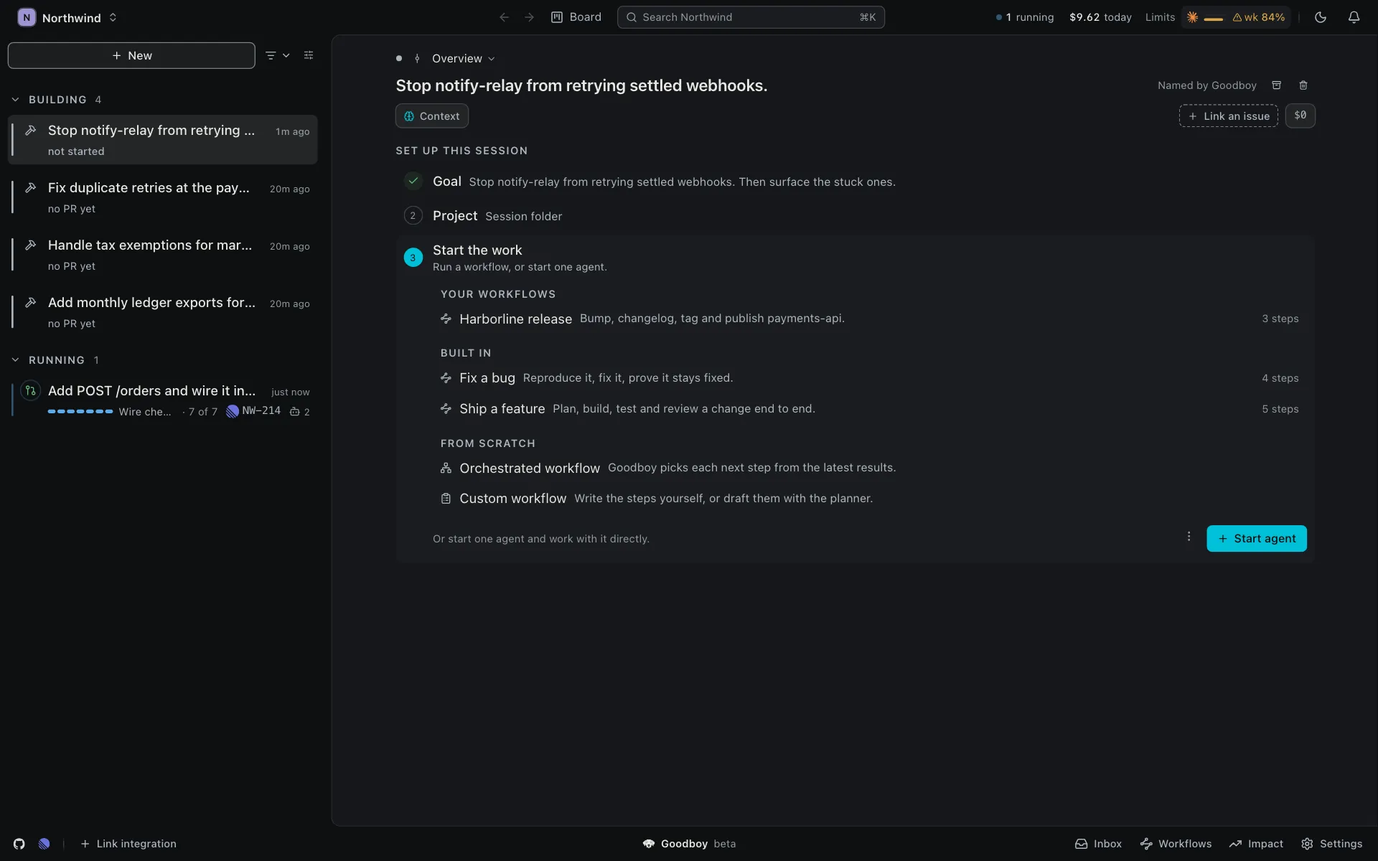
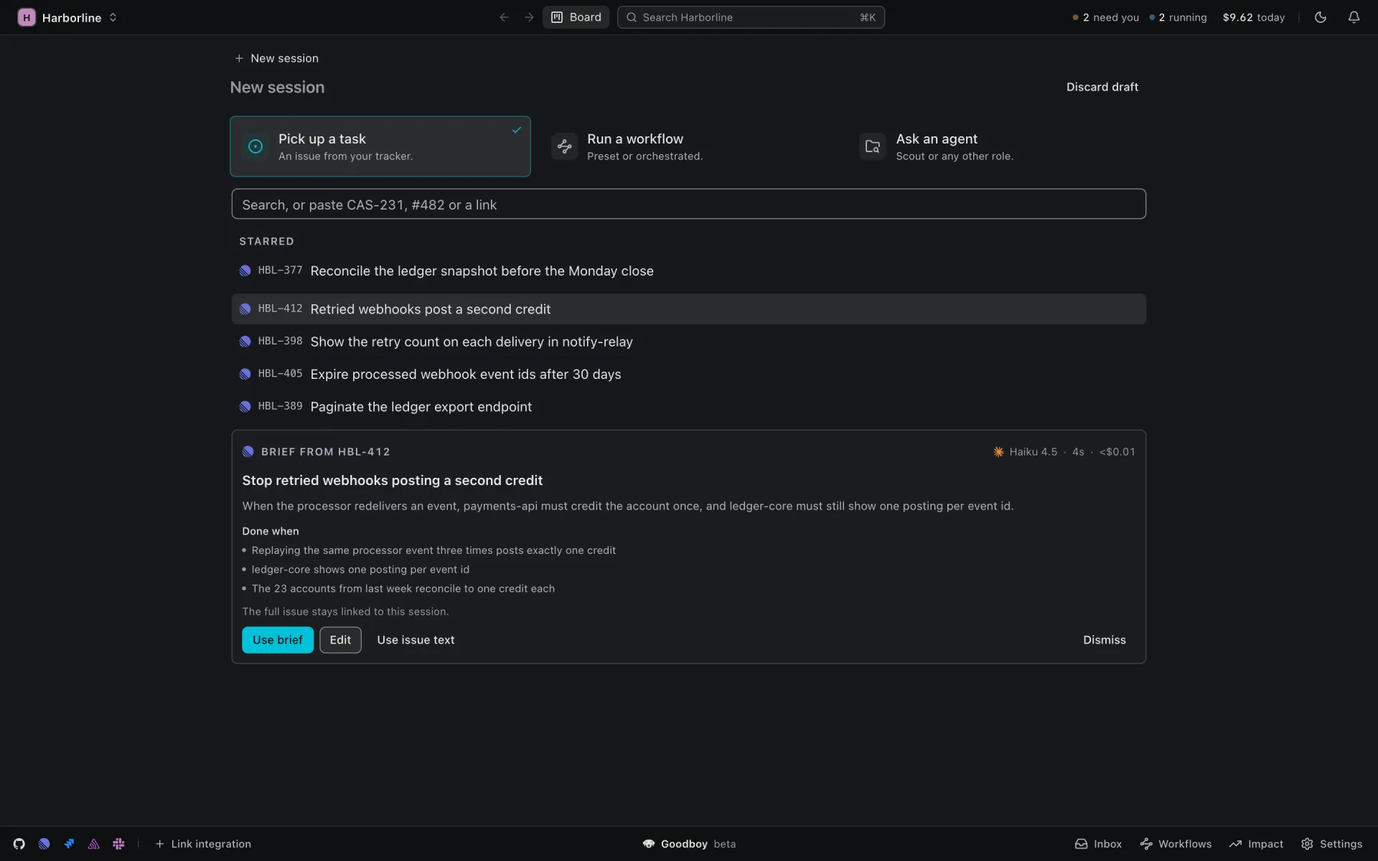
docs(repo): describe start blank and the kickoff workflow approach
The 0.11.4 pages described the setup stepper. They are back to the
0.11.3 kickoff text plus Start blank and the Orchestrated, Custom and
Preset choice, and the stepper pictures are gone.

diff --git a/apps/desktop/src/features/settings/components/GuideStudio/guideChapters.ts b/apps/desktop/src/features/settings/components/GuideStudio/guideChapters.ts
@@ -122,7 +122,7 @@ export const GUIDE_CHAPTERS: ReadonlyArray<GuideChapter> = [
     group: 'task',
     title: 'New session and kickoff',
     concept: 'sessions',
-    lead: 'A session is one task: a goal, the agents working on it, and a branch for each project they edit. It starts as a draft and becomes a session only when you press Start.',
+    lead: 'A session is one task: a goal, the agents working on it, and a branch for each project they edit. It starts as a draft and becomes a session only when you press Start or Start blank.',
     points: [
       {
         term: 'Pick up a task',
@@ -130,11 +130,15 @@ export const GUIDE_CHAPTERS: ReadonlyArray<GuideChapter> = [
       },
       {
         term: 'Run a workflow',
-        desc: 'Write a goal, pick a built-in or saved workflow, and run it from the first screen.',
+        desc: 'Write a goal and pick Orchestrated, Custom or Preset. A preset runs from the first screen. The other two open the workflow form with your goal filled in.',
       },
       {
         term: 'Ask an agent',
         desc: 'Ask a question about the code. Scout is the default and maps an unfamiliar repo before you plan.',
+      },
+      {
+        term: 'Start blank',
+        desc: 'Start from the goal: the session opens on its Overview, where you add the goal, projects and work when you are ready.',
       },
       {
         term: 'Named for you',

diff --git a/website/src/sections/HowItWorks.tsx b/website/src/sections/HowItWorks.tsx
@@ -19,10 +19,6 @@ export const HowItWorks = () => (
         why.
       </p>
       <p>
-        Press New and the session opens blank on its overview. Set a goal and a project, then pick
-        your own workflow, a built-in one, or an orchestrated or custom one.
-      </p>
-      <p>
         Heading somewhere you did not mean? Leave a hint for the next decision, or have it read
         right away.
       </p>

diff --git a/docs/navigation.md b/docs/navigation.md
@@ -225,45 +225,108 @@ empty session reads as a young version of the same document, not a wall of
 placeholders. Finished work collapses into one summary row per category. The
 surface itself shows urgency, never a badge parked beside it.
 
-**New session starts blank, straight on its Overview.** New, ⌘N, the board,
-the palette, the collapsed rail and the checklist all fire
-`goodboy:new-session`, and `NewSessionBridge` calls `startBlankSession`
-(`store/slices/sessionStart/`): it creates a session with no title, goal,
-project, agent or workflow and lands on its Overview. Nothing is asked first.
-While the last blank session is still untouched (no title, goal, slot, mount,
-agent or workflow run), New goes back to it instead of creating another one,
-so repeated presses never pile up empty sessions. A second press while the
-first create is still running is ignored. A blank session reads `Untitled
-session` in the header, the sidebar, the board and every confirm
-(`sessionTitle`).
+**New session is a draft, not a session.** New, ⌘N, the board, the palette
+and the checklist open the `New session` draft (the `session-draft` place,
+address `new`). Nothing is written: no row in the database, the sidebar or
+the board. The trail and the title say `New session`, the title is faint and
+cannot be renamed, and there is no `⋯`, no chip and no projects section. The
+sidebar's New button stays selected while the draft is open. Each workspace
+keeps one draft in memory (`store/slices/sessionDraft/`), never on disk:
+leaving it keeps it intact, New brings it back, and the button shows a primary
+dot with `Draft in progress` while a written draft waits. `Discard draft` in
+the header empties it; Esc never does. Back returns to the draft like any
+other place. **Start blank** in the header (`startBlankSession`) is the way
+to start from the goal: it creates a session with no title and no goal slot
+and lands on its normal Overview (`Untitled session`, `Add a goal`), where
+the goal, projects and work are added from the usual controls. Nothing is
+required first, and the draft stays for the next New.
 
-**A session with nothing started sets itself up inline** (`SessionSetup`).
-While it has no agent and no workflow run, the Overview shows `Set up this
-session` in place of the next step and Activity: an ordered list of three
-steps, one open at a time, each with its own empty state and actions.
+The draft asks one question, "How do you want to start?", with three choices
+on one row as tabs (`StartChoiceTabs`, `SegmentedTabs` `card` variant).
 
-- **Goal** asks "What should this session get done?". Save goal writes the
-  goal slot and, while the session is untitled, names it after the goal's
-  first sentence (`saveSessionSetupGoal`, marked `Named by Goodboy`).
-- **Project** lists the workspace projects not in the session yet
-  (`MountProjectList`, the same list and preflight as Add project). Skip keeps
-  the turns in the session folder; a workspace with no project offers `Add
-workspace project`.
-- **Start the work** lists `Your workflows`, `Built in` and `From scratch`
-  (`Orchestrated workflow`, `Custom workflow`), with Start agent and the Create
-  menu beside them. Picking a workflow prefills the builder draft
-  (`builderDraftFor`: the preset and its steps, or the custom or orchestrated
-  approach, plus the session goal) and opens the same `Start a workflow` studio
-  the Workflows lens uses (`WorkflowBuilderView`), editable before anything
-  starts.
+- **Pick up a task** shows the open issues of the connected trackers with a
+  search field. Picking one and pressing **Pick up** proposes the brief under
+  the list, as the issue brief flow in [concepts.md](concepts.md) describes.
+  Use brief, Edit or Use issue text settles the title and goal and opens
+  **How to work on it** (`HowToWorkOnIt`) underneath: the same Run a workflow
+  or Ask an agent choice as the other two tabs, precompiled with that goal,
+  Run a workflow preselected. Its own primary links the issue, creates the
+  session and starts the workflow or agent in one gesture. Without a tracker
+  it shows the connect links. The search, like the Inbox search, reads an issue
+  code or link (`parseIssueCode`: `CAS-231`, a Sentry short id, `#482`,
+  `owner/repo#482`, a tracker URL; anything else stays a local filter). When
+  no loaded row has that exact identifier, `useWorkspaceIssueLookup` asks the
+  right tracker once (300 ms after typing, cached two minutes): a key goes to
+  Jira when it matches the Jira project, to Linear alone when the prefix
+  matches a Linear team key (`linear_fetch_team_keys`, fetched once per
+  connection and cached, so a recognized team no longer also fires a Jira
+  call that was always going to 404), otherwise to Linear and Jira; `#N` goes
+  to every GitHub or GitLab repo of the workspace's projects (four GitHub
+  calls at a time); a short id resolves across the Sentry organization
+  (`sentry_resolve_short_id`). While a lookup is in flight, the row names the
+  trackers it asked (`Looking up CAS-231 in Linear and Jira`). Hits sit in a
+  `Not in your inbox` group above the list (`InboxLookupGroup`) and open or
+  pick up like any other issue, with a second line showing `Assigned to
+<name>` for a Linear or Jira hit with a known assignee, the project/repo
+  context otherwise; a miss is one row in that group that says why (not
+  found or not visible, key rejected with `Sign in again`, missing
+  permission, tracker not connected, no repo for `#N`), and a rate limit
+  shows a live countdown and retries once on its own when it ends, alongside
+  the manual `Try again`. The mobile companion resolves Linear, Sentry and
+  GitLab issues through the same direct lookups instead of searching only
+  the issues assigned to you. Issues can be starred (`StarToggle`, the same
+  star as projects) from an Inbox row, a lookup hit or `s` on the selected
+  row. Stars live per workspace (`workspace_starred_issues`, keyed by
+  provider and external id; GitHub keys by `owner/repo#N`) with the last
+  copy of identifier, title and state, so the `Starred` group draws before
+  any tracker answers; a row not refreshed since app start opens the detail
+  panel from that snapshot (`placeholderRecordOf`), not the tool's URL, and
+  gets replaced once the refresh lands a real record. In the Inbox it sits
+  under `Not in your inbox` and above the days, and a starred issue leaves
+  the days; open ones come first, closed ones at the bottom with `Unstar
+closed` and `Undo`, and one the tracker no longer returns reads `Can't
+reach NW-230 anymore`. Pick up a task shows only the open starred issues,
+  even ones a session already picked up. Opening the Inbox or Pick up a task
+  refreshes the stars at most every five minutes (`refreshStarredIssues`):
+  one request per tracker for Linear and Jira, one per project for GitLab,
+  and one per issue for GitHub and Sentry, which have no batch endpoint for
+  fetching by id.
+- **Run a workflow** asks for the goal, then the approach with the workflow
+  builder's own switch (`ModeSwitch`: Orchestrated, Custom, Preset). The pick
+  is kept in the draft (`workflowMode`) and in the builder's last-mode key, so
+  both open on the same approach next time. **Preset** lists built-in and
+  saved presets: **Run workflow** starts one with that goal, **Edit steps**
+  opens it in the builder first. **Orchestrated** (Set up orchestration) and
+  **Custom** (Set up the steps) create the session, seed its builder draft
+  (`builderDraftFor`) with the approach and the goal, and open the shared
+  workflow builder (studio `workflow`) on it, where Start workflow runs it.
+- **Ask an agent** (`AgentStart`) is the real chat composer's field: role,
+  model and project sit below it as chips (`AgentStartFields`), opening the
+  same role grid and model picker `Start agent` uses. The role defaults to
+  Scout every time, never the last one picked, because a habitual Implementer
+  writes code you did not ask for. Scout alone can start with an empty field
+  ("Start Scout on the whole project", which reads the project and changes
+  nothing); every other role needs a prompt first. The model chip reads Auto
+  until pinned. The project chip only shows when the workspace has more than
+  one repo project; with one it is preselected with no chip, with none the
+  session starts with no project attached.
 
-Each step can be skipped, and a done or skipped row reopens in place on click
-(`focusSessionSetupStep`). The next open step is the first one neither done
-nor skipped. Skips live in memory per session. The header hides `Add a goal`
-and the empty Projects section while the setup shows, so nothing is asked
-twice. The first agent or workflow run ends the setup and the Overview
-becomes the usual document. Picking up an issue with a drafted brief lives in
-the Inbox (Launch session).
+Only the selected tab's panel, and only its primary, shows. The tabs
+preselect Pick up a task when a tracker has open issues and Run a workflow
+otherwise, and they never remember the last choice. Opening the draft puts
+focus on the selected tab.
+
+**Start is the only way a session is born from the draft.** The primary
+creates the session and starts the work in one gesture
+(`startSessionFromDraft`): the title and the goal come from the issue, the
+workflow goal or the first sentence of the Scout focus, a picked issue is
+linked, and the column moves to the new session. The header marks that title
+`Named by Goodboy` until you rename it or open the session again, and a better
+title that arrives later fades in without moving the layout. If the start fails, the
+session is removed again, the draft stays as it was and the reason shows
+inline above the primary. A session that exists always has a real title, so
+its header never has an empty state. Sessions created elsewhere with no
+activity yet show the plain overview with its actions.
 
 ## Breadcrumbs
 
@@ -542,12 +605,13 @@ control, names the workspace after its parent folder and finds the
 repositories inside one. Code host is skipped by itself when no project is a
 repository. Code host and Tasks can be skipped; Sentry, Slack and the rest
 live in Settings › Integrations. There is no permissions question: every
-workspace starts on Full access. The last step offers three ways to start,
-with Ask an agent picked and three starters: Start Scout creates the session
-in the project picked in the Project step (`startFirstScout`), titled after
-the starter, with Scout running on it. Pick up a task closes the wizard on the
-Inbox. Run a workflow closes it on a blank session in that project, open on its
-Start the work step. With no
+workspace starts on Full access. The last step offers the same three ways as
+a new session, with Ask an agent picked and three starters: Start Scout
+starts the session from a Scout draft (`startSessionFromDraft`) with that
+starter as its focus, and Scout running. Pick up a task and Run a workflow
+close the wizard on the new session draft with that choice picked. Either
+way the draft carries the project picked in the Project step, so the session
+lands in it. With no
 issue source at all, Pick up a task says so and leads back to Code host. The checklist has six
 items (provider, project, code host, task manager, first session, profile); a
 skipped code host or task manager reopens its own step, and the first session
@@ -924,9 +988,12 @@ workspaceId })`, owns every row's subtitle and tone (it replaced three
 
 ## Creating a session
 
-A new session is created blank and always lands on Overview. Nothing is a
-condition for having one: goal, project, agents and workflow are each set
-later, inline, from the setup steps. Creating a session picks no project. The session is born on the
+The new session form always lands on Overview. It offers no agent-kind picker
+before the session exists: the kind is a choice made inside a session, not a
+condition for having one. Its issue sources come from a curated allowlist, not
+from every connected provider, because a connected code host does not mean an
+issue picker. The section hides when none of the allowed sources is connected.
+Creating a session picks no project either. The session is born on the
 workspace with only a container directory, and projects are materialized when
 the work reaches them ([concepts.md](concepts.md) → Lazy sessions).
 

diff --git a/docs/event-bus.md b/docs/event-bus.md
@@ -8,7 +8,7 @@ Every event on this page is a browser CustomEvent sent via `window.dispatchEvent
 
 | Event                             | Payload | Dispatched from                                                                                                                                                                                            | Listened in                                                                          | Purpose                                                 |
 | --------------------------------- | ------- | ---------------------------------------------------------------------------------------------------------------------------------------------------------------------------------------------------------- | ------------------------------------------------------------------------------------ | ------------------------------------------------------- |
-| `goodboy:new-session`             | none    | requestNewSession.ts (useAppShortcuts/index.ts, CommandPalette/index.tsx, NewSessionButton.tsx), SetupChecklist/StepRow.tsx, CollapsedRail.tsx, StageBoard/index.tsx, ImpactStudio/index.tsx               | useSessionSurfaceEvents.ts, SessionActivityBar/index.tsx, NewSessionBridge/index.tsx | Create a blank session (or reopen the untouched one).   |
+| `goodboy:new-session`             | none    | requestNewSession.ts (useAppShortcuts/index.ts, CommandPalette/index.tsx, NewSessionButton.tsx), SetupChecklist/StepRow.tsx, CollapsedRail.tsx, StageBoard/index.tsx, ImpactStudio/index.tsx               | useSessionSurfaceEvents.ts, SessionActivityBar/index.tsx, NewSessionBridge/index.tsx | Open the new session draft on the current workspace.    |
 | `goodboy:add-workspace`           | none    | SetupChecklist/StepRow.tsx, WorkspaceLauncher/index.tsx, WorkspaceSwitcher/index.tsx, CommandPalette/index.tsx                                                                                             | useStudioEvents.ts                                                                   | Open the add workspace studio.                          |
 | `goodboy:reveal-chat`             | none    | HandoffChip, NotificationToastBridge, useBoardNavigation, useAgentsSection, useStandaloneAgentsLane, CreateAgentPopover, AgentFollowUpChild, ExploreSpawnPopover, useReportRegenerate, useWireframeRespawn | useSessionSurfaceEvents.ts, AgentDetailPane/index.tsx                                | Close the session studio and show the agent transcript. |
 | `goodboy:open-workspace-switcher` | none    | useAppShortcuts/index.ts, WorkspaceLinkForm/index.tsx                                                                                                                                                      | WorkspaceIdentityRow/index.tsx (via openEvent prop)                                  | Open the workspace switcher popover.                    |
@@ -26,7 +26,7 @@ Every event on this page is a browser CustomEvent sent via `window.dispatchEvent
 | `goodboy:open-notifications`        | none                                                                                                                                                                    | Toast/index.tsx                                                                                                                                                                                                                                                                                                    | NotificationCenter/index.tsx | Open the notifications popover.                                                                             |
 | `goodboy:open-pair-device`          | none                                                                                                                                                                    | SettingsStudio/AppScopePanel.tsx, CommandPalette/index.tsx                                                                                                                                                                                                                                                         | useStudioEvents.ts           | Open the companion pairing studio.                                                                          |
 | `goodboy:open-impact-studio`        | `{ scope?: object }`                                                                                                                                                    | openImpactStudio.ts (SessionCostChip.tsx, OrchestratorStrip/index.tsx, NotificationToastBridge/index.tsx, CommandPalette/index.tsx)                                                                                                                                                                                | useStudioEvents.ts           | Open the impact studio, at a spend scope when one is given.                                                 |
-| `goodboy:open-inbox`                | `{ workspaceId?, provider?, kind?, recordKey?, sessionId? }`                                                                                                            | ToolDetailPanel.tsx, StageBoardCard/index.tsx, session-view/workSurface.ts, CommandPalette/index.tsx                                                                                                                                                                                                               | useStudioEvents.ts           | Open the inbox studio, optionally scoped to a provider, kind, record or session.                            |
+| `goodboy:open-inbox`                | `{ workspaceId?, provider?, kind?, recordKey?, sessionId? }`                                                                                                            | TrackerStudioLinks/index.tsx, ToolDetailPanel.tsx, StageBoardCard/index.tsx, session-view/workSurface.ts, CommandPalette/index.tsx                                                                                                                                                                                 | useStudioEvents.ts           | Open the inbox studio, optionally scoped to a provider, kind, record or session.                            |
 | `goodboy:open-workflow-studio`      | none                                                                                                                                                                    | WorkflowFollowToastBridge/index.tsx, CommandPalette/index.tsx                                                                                                                                                                                                                                                      | useStudioEvents.ts           | Open the workspace workflow studio.                                                                         |
 | `goodboy:open-changelog`            | none                                                                                                                                                                    | changelogStudioEvent.ts (CommandPalette/index.tsx)                                                                                                                                                                                                                                                                 | useStudioEvents.ts           | Open the changelog studio.                                                                                  |
 

diff --git a/packages/ui/DESIGN-SYSTEM.md b/packages/ui/DESIGN-SYSTEM.md
@@ -102,7 +102,7 @@ The list is `TYPE_ROLES` in `typeRoles.ts`.
 | ---------------- | ----------------------------- | -------------------------------------------------------------------------------------- |
 | `text-display`   | 24/32, 600, -0.01em           | onboarding titles, the `EmptyState` hero, the Impact title                             |
 | `text-title`     | 17/24, 600, -0.005em          | the one pane title (h1) of a surface                                                   |
-| `text-heading`   | 14/20, 600                    | a page-grade section, a popover title, a wizard question                               |
+| `text-heading`   | 14/20, 600                    | a page-grade section, a popover title, a kickoff question                              |
 | `text-row`       | 14/20, 500                    | a top-level row label, a card title                                                    |
 | `text-body`      | 14/20                         | running text; text with no class inherits it from the body                             |
 | `text-prose`     | 14/22                         | messages, markdown, artifacts                                                          |
@@ -756,7 +756,7 @@ Which action goes in which zone is decided in [DESIGN.md](../../DESIGN.md#action
 - The `tabs` slot of the detail layout keeps the tab strip at its own width. It never stretches across the header.
 - A section-scoped action uses `SectionHeader.action`. A field control uses `FieldRow`. Neither one moves itself up into global chrome.
 - A region that can start several kinds of work shows one primary, never a row of peer buttons. `SplitButton` joins the primary half, which its owner renders through `primary({ className })` so a popover can anchor to it, with a chevron half that opens the less frequent starts as a menu. Each menu item names the kind and carries a one-line `description` and a concept `tone` on its icon. `OverflowMenu` and `SplitButton` render items through the same `MenuItems`.
-- A blank session's setup follows the same rule: only the open step shows its fields and its one primary (Save goal, Start agent), the other steps are single rows that reopen in place, and Skip is a ghost beside the primary. The workflow list under Start the work is a list of rows, never tiles. A grid of tiles is not an action zone.
+- The new session draft follows the same rule, with one exception: an empty session asks one question with three choices on one row, as tabs (`SegmentedTabs` `card` variant, glyph, title, one line, a check on the selected one) instead of a stacked list, because there are exactly three doors and they read better side by side. Only the selected tab's panel, and only its primary, shows. An item that cannot work yet is left out, never shown disabled. A grid of tiles is otherwise not an action zone.
 - The session overview's actions carry a second exception: a frequent alternative to the primary sits as one secondary button beside it, not folded into the menu. `OverviewActions` shows a secondary Run workflow (Open run once one is active) next to the primary Start agent, with `OverflowMenu` labeled Create holding only the rarer starts (Report, Wireframe). Still one primary; the secondary is the one alternative common enough to earn its own button.
 - An overflow menu that has to confirm one of its items in place renders `MenuItems` inside its own `AnchoredPopover` and swaps to a plain `InlineConfirm`, as the orchestrator strip does for **Stop now**.
 - An on or off setting is a `Switch`: the label names the setting and the knob says its state, so the label never reads "on" or "off". Autorun uses it everywhere (`WorkflowAutorunToggle`).
@@ -888,13 +888,12 @@ Lenses always use `inline`. Only a surface's own main empty state gets the
 large size and an `h2`. An empty lens leaves `headingLevel` unset, so it adds
 nothing to the document outline.
 
-A blank session's empty state is its setup (`SessionSetup`): `Set up this
-session` over an ordered list of Goal, Project and Start the work. Each row is
-a 20px step marker (the ordinal, filled with primary on the open step, a
-success check once done, a faint ring otherwise), a title and, once done or
-skipped, a muted one-line summary. The open step sits on `subtle` with its one
-line of explanation, its fields and its action row. There is no example run
-and no grid of tiles.
+The new session draft is the kickoff. It asks "How do you want to
+start?" and answers with a single-select list of three rows, each a concept
+glyph, a title and one line: Pick up a task, Run a workflow, Not sure yet. The
+selected row reveals its fields and its one primary under the list. Arrow keys
+move between rows and Enter moves into the selected row's fields. There is no
+example run and no grid of tiles.
 
 Inline empty states belong to a lens or a compact collection surface. A filled,
 borderless inline empty state belongs to a surface's own body and uses

diff --git a/docs/concepts.md b/docs/concepts.md
@@ -265,8 +265,8 @@ whether you clicked it on the board or in the session overview.
 - **`NextStepSlot`** (`features/suggestions/components/NextStepSlot/`) sits
   in the session overview, above Activity, outside its filter and its
   grouping: a suggestion is not activity, it is a pointer to what activity
-  should happen next. A session with nothing started shows its setup steps
-  instead; the two never compete for the same moment.
+  should happen next. A new session shows the kickoff instead; the two never
+  compete for the same moment.
 - Every suggestion carries a **band** (0 waits on you, 1 unblocks something,
   2 ships something, 3 improves something), a **why** (the second line, the
   concrete reason), a **fingerprint** (kind, object, trigger version) and a
@@ -808,12 +808,19 @@ item and its link. Agents read the whole item through the
 [query bridge](query-bridge.md). A proposed session title is cut at a word and
 ends with an ellipsis.
 
-Opening Launch session on an inbox issue asks the **Issue briefs** task model
-for a brief: a title, a goal of one to three sentences and up to five "done
-when" criteria, in the issue's language. It reads the issue text, not its
-comments, and answers in checked JSON, so a reply with a preamble fails
-instead of leaking into the goal. The brief is only a proposal: in the Launch
-session popover it fills the goal only while you have not edited it, and
+Picking an issue in the new session draft, or opening Launch session on an
+inbox issue, asks the **Issue briefs** task model for a brief: a title, a goal
+of one to three sentences and up to five "done when" criteria, in the issue's
+language. It reads the issue text, not its comments, and answers in checked
+JSON, so a reply with a preamble fails instead of leaking into the goal. The
+brief is only a proposal. In the draft you pick Use brief, Edit, Use issue
+text or Dismiss, and a failure stays inline in the card with Retry. The first
+three settle the title and goal and open How to work on it (`HowToWorkOnIt`,
+`SessionKickoff/`) underneath: Run a workflow (preselected, the workspace's
+first library preset) or Ask an agent, precompiled with that goal and
+editable. Its own action links the issue, creates the session and starts the
+workflow or agent in the same gesture; nothing exists before that. In the
+Launch session popover the brief fills the goal only while you have not edited it, and
 Launch works with the issue text while the brief is still loading. Briefs are
 kept in memory per issue text, so the same issue is not briefed twice. With no
 connected provider free for the task, the card shows the issue text alone.

diff --git a/FEATURES.md b/FEATURES.md
@@ -86,16 +86,20 @@ Tell agents once who you are and how you like to work, in four short parts. **Se
 
 <picture>
   <source media="(prefers-color-scheme: dark)" srcset="./docs/readme/s02-kickoff-dark.webp">
-  <img src="./docs/readme/s02-kickoff-light.webp" alt="A blank session's overview with the goal set and Start the work listing your workflows, built-in ones, and an orchestrated or custom workflow">
+  <img src="./docs/readme/s02-kickoff-light.webp" alt="Pick up a task with HBL-412 selected and a drafted brief">
 </picture>
 
-### Start blank, set it up step by step
+### How do you want to start?
 
-**New** opens a fresh session right away, with nothing to fill in first. Its overview walks you through **Goal**, **Project** and **Start the work**, one step at a time, and any step can be skipped or reopened. Press New again before touching it and you land back on the same session, so empty sessions do not pile up.
+Start from an issue, a workflow or a question, in one draft with three tabs: **Pick up a task**, **Run a workflow** and **Ask an agent**. The draft becomes a session only when you press Start, so empty sessions do not pile up.
+
+### Start blank
+
+Start from the goal instead: **Start blank** opens the session straight on its Overview, and you add the goal, projects and work from there.
 
 ### Pick up a task, with a drafted brief
 
-Turn an issue into a briefed session from the Inbox. Goodboy drafts a short title and goal linked back to the issue, and you keep it or edit it.
+Turn an issue into a briefed session in one pick. Goodboy drafts a short title and goal linked back to the issue, and you keep it, edit it, or use the issue text.
 
 ### Ask an agent
 
@@ -103,7 +107,7 @@ Map an unfamiliar repo before you plan: **Scout** is the default and can start w
 
 ### Run a workflow
 
-Start the work lists your own workflows, the built-in ones, an orchestrated workflow and a custom one. Picking any of them opens the full workflow form, filled in with your goal, so you can change the steps before it starts.
+Write a goal and pick **Orchestrated**, **Custom** or **Preset**. A built-in or saved preset runs from the first screen. Orchestrated, Custom and **Edit steps** open the workflow form with your goal filled in.
 
 ### Named by Goodboy
 

diff --git a/README.md b/README.md
@@ -35,7 +35,7 @@ The idea is small. A task keeps its own goal, decisions and summary, so the agen
 
 You pick an issue from Linear. Goodboy drafts a title and a goal from it, and the task lands on the **board** as a session. From there the board moves it for you, between **building**, **running**, **needs you** and **in review**, with done work folded to the side, as the work changes. Each card shows its pull request and what it has cost so far.
 
-Tasks come from the tools you connect: [GitHub, GitLab, Bitbucket, Jira, Linear, Sentry and Slack](https://github.com/akhayam99/goodboy/blob/main/FEATURES.md#supported-tools). Or press **New** for a [blank session](https://github.com/akhayam99/goodboy/blob/main/FEATURES.md#start-blank-set-it-up-step-by-step): its overview asks for a goal, a project and how to start the work, one step at a time.
+Tasks come from the tools you connect: [GitHub, GitLab, Bitbucket, Jira, Linear, Sentry and Slack](https://github.com/akhayam99/goodboy/blob/main/FEATURES.md#supported-tools).
 
 [See how it works →](https://github.com/akhayam99/goodboy/blob/main/FEATURES.md#the-board)
 
@@ -48,7 +48,7 @@ Tasks come from the tools you connect: [GitHub, GitLab, Bitbucket, Jira, Linear,
 
 ## Workflows
 
-A **workflow** splits the task into steps, and each step is a fresh agent with a short brief. In **Orchestrated** mode a model picks the next step after each one finishes and writes down why. A new session lists your own workflows, the built-in ones, and an orchestrated or custom one, and each opens the same form, filled in with your goal.
+A **workflow** splits the task into steps, and each step is a fresh agent with a short brief. In **Orchestrated** mode a model picks the next step after each one finishes and writes down why.
 
 That is also where the money goes. In the run below, a scout read the posting path for two cents. The planner spent $1.28, because that is the step that has to think. Want to steer? Queue a hint for the next decision, or have the orchestrator read it now.
 

diff --git a/CHANGELOG.md b/CHANGELOG.md
@@ -14,21 +14,19 @@ onto its own paragraph.
 
 ## Goodboy v0.11.4
 
-New sessions open blank on their overview and set up in three short steps, with every kind of workflow one pick away.
+Start a session blank from the goal, and pick orchestrated, custom or preset right in the kickoff.
 
 ### New
 
-#### Start blank, set it up step by step
-<!-- gb area=sessions image=session-start -->
+#### Start blank, straight from the goal
+<!-- gb area=sessions -->
 
-New opens a session right away, with nothing to fill in first, and lands on its Overview. Set up this session walks you through Goal, Project and Start the work, one step at a time. Skip any step and reopen it later from the same list.
+The kickoff keeps Pick up a task, Run a workflow and Ask an agent. Start blank, next to them, creates the session and lands on its Overview, where you add the goal, projects and work from the usual controls. Nothing is required first.
 
-Press New again before you touch the session and you land back on it, so empty sessions do not pile up. Picking up an issue stays in the Inbox.
+#### Orchestrated, custom or preset in Run a workflow
+<!-- gb area=workflows -->
 
-#### Pick any workflow to start the work
-<!-- gb area=workflows image=workflow-picker -->
-
-Start the work lists your workflows, the built-in ones, and an orchestrated or custom workflow. Picking any of them opens the workflow form filled in with your goal, so you can change the steps before it starts. Start agent runs one agent instead.
+Run a workflow now offers the same Orchestrated, Custom and Preset choice as the workflow form. A preset runs from the first screen. Orchestrated, Custom and Edit steps open the workflow form with your goal filled in.
 
 ### Fixed
 
